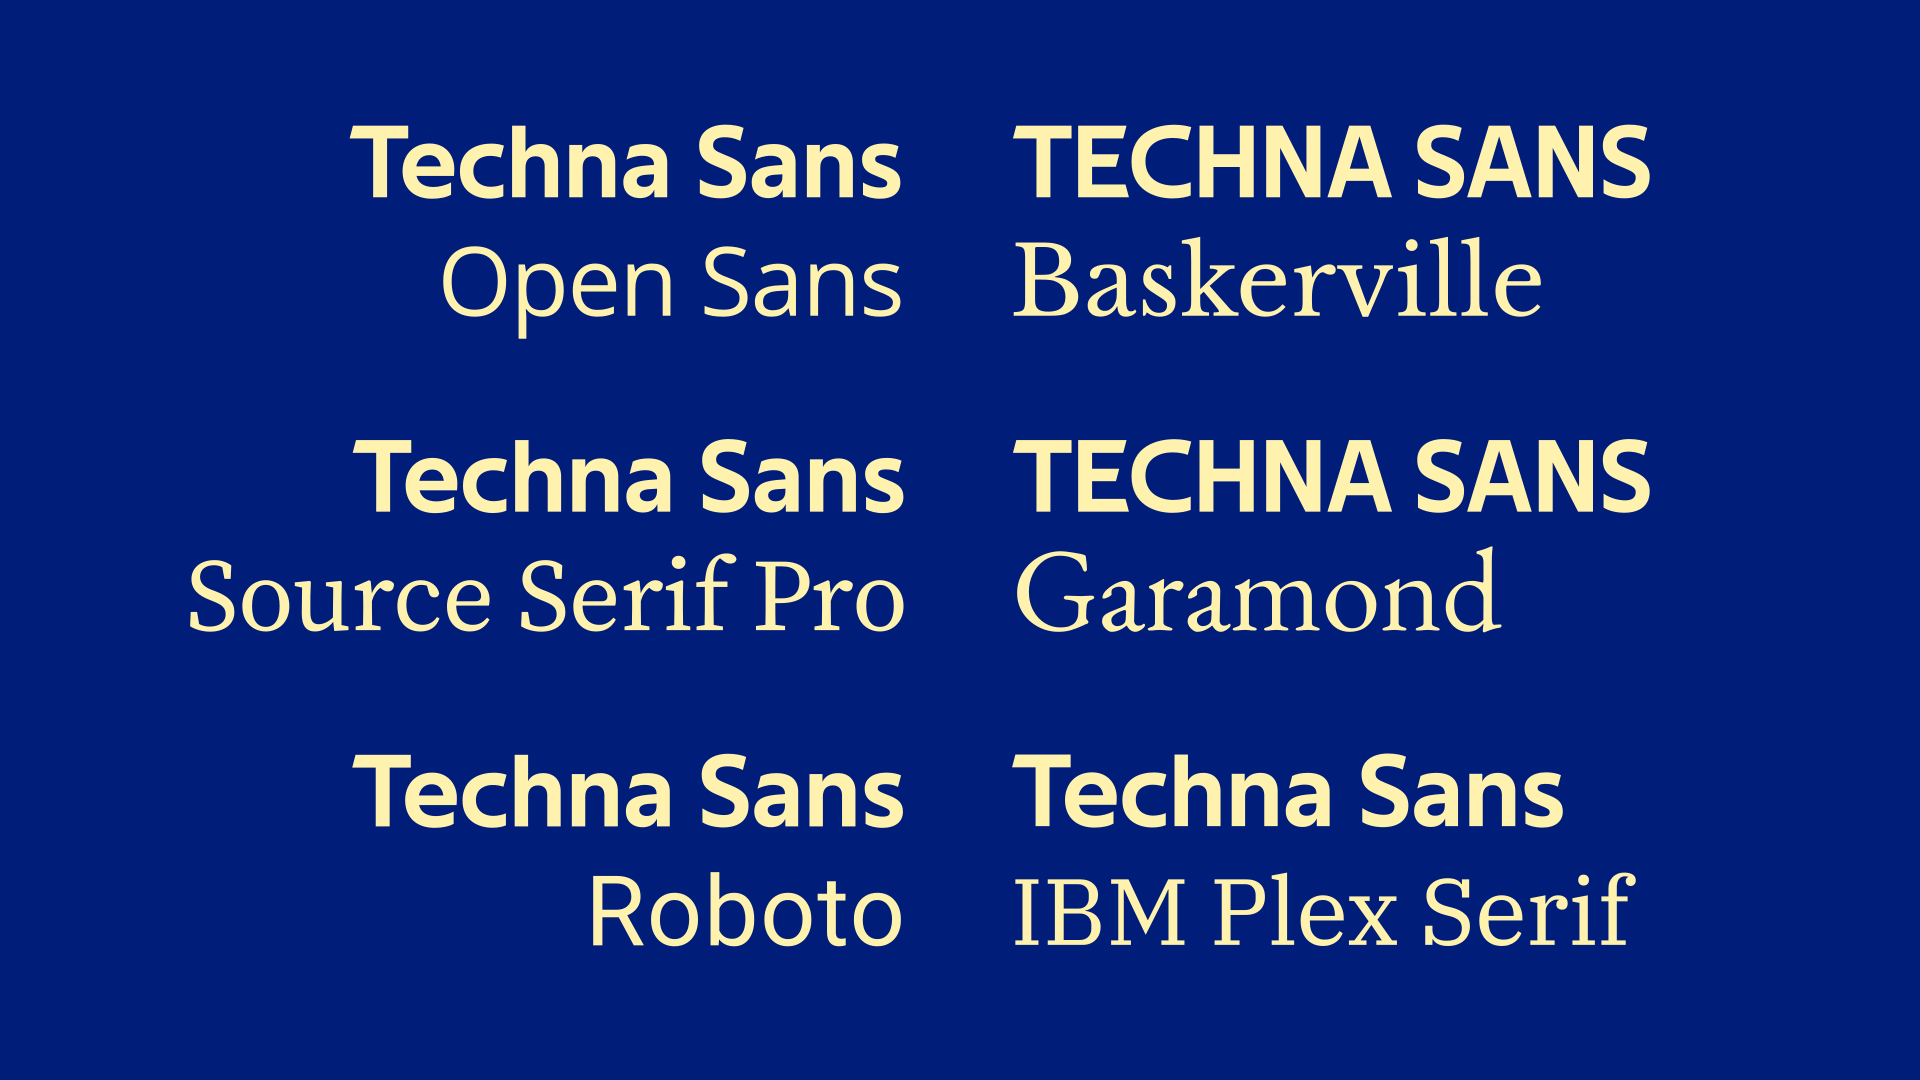
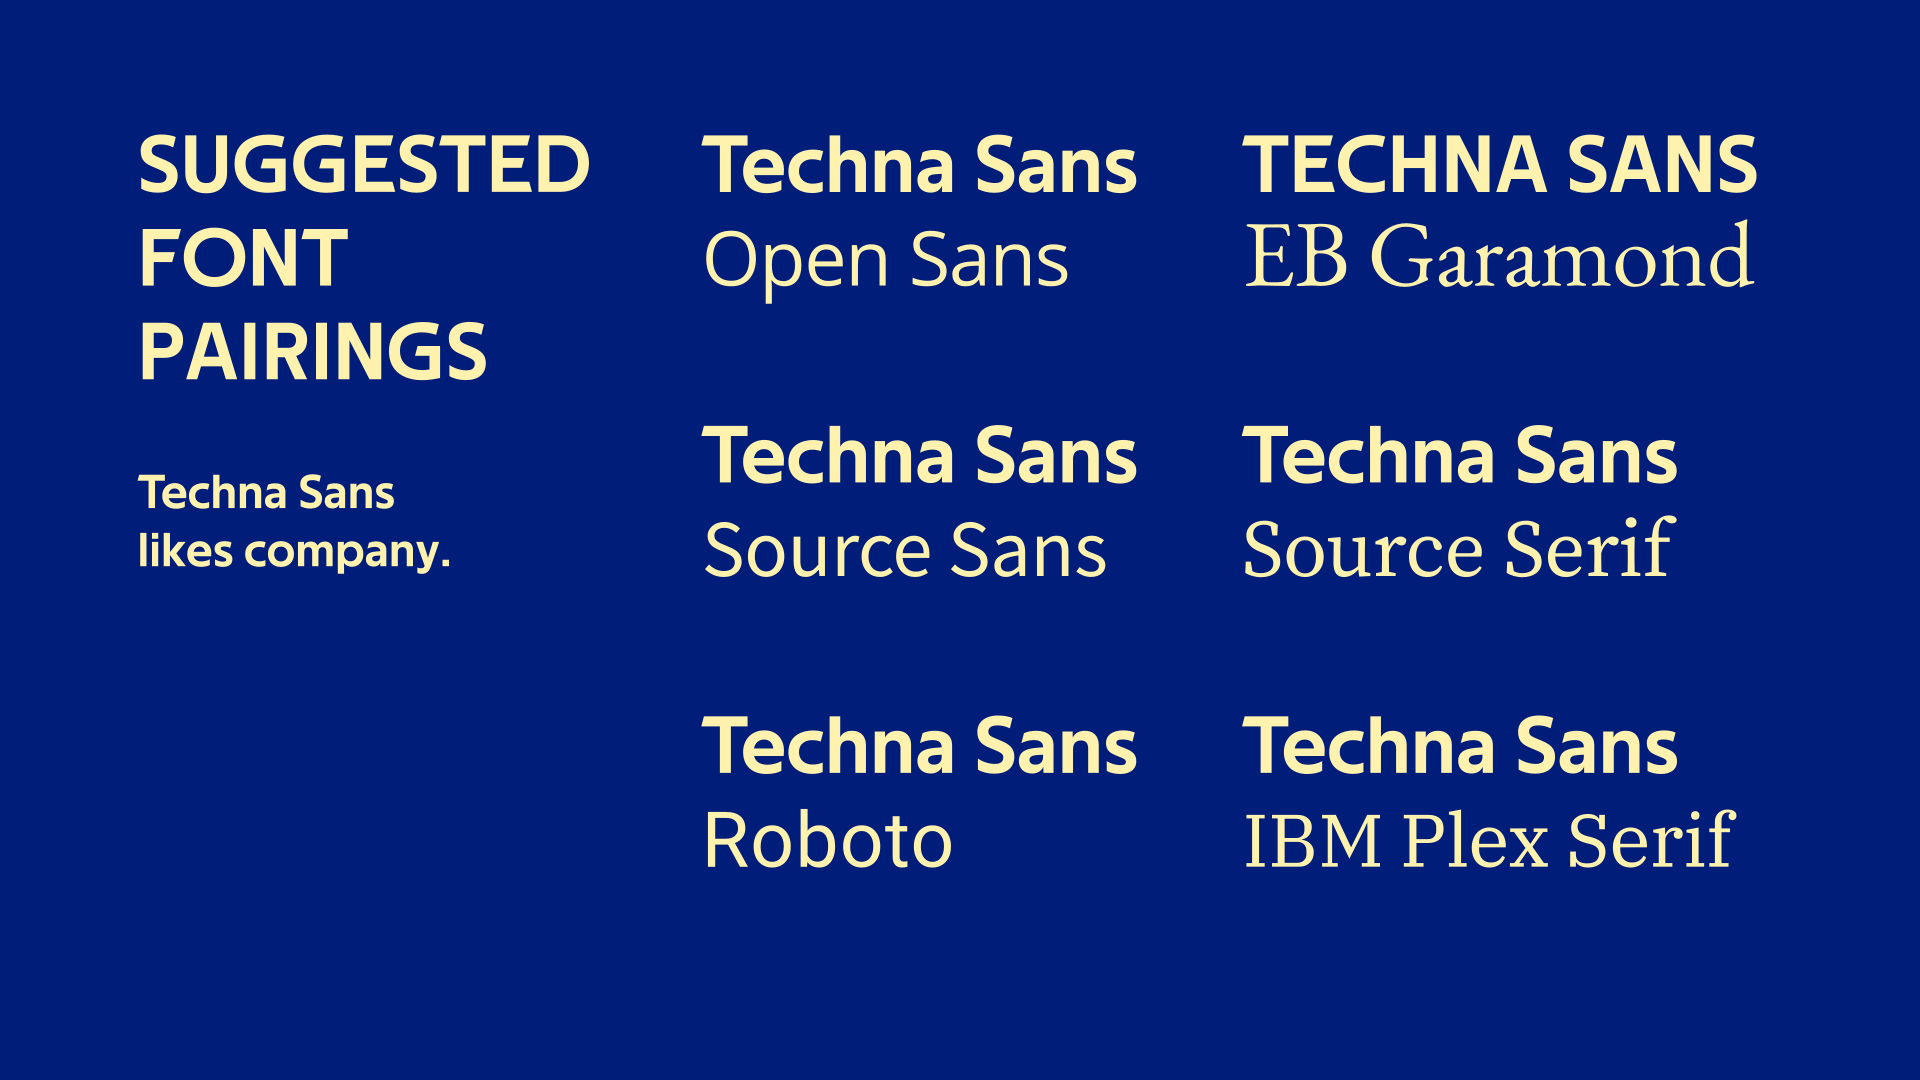
Update pairings

Changed region(s): [[0.0625, 0.0917, 0.9375, 0.3667], [0.0625, 0.3972, 0.875, 0.5806], [0.1875, 0.6417, 0.9062, 0.8861]]

diff --git a/README.md b/README.md
@@ -6,6 +6,4 @@
 
 ![](specimen-details.png)
 
-## Font pairings
-
 ![](specimen-pairings.png)
